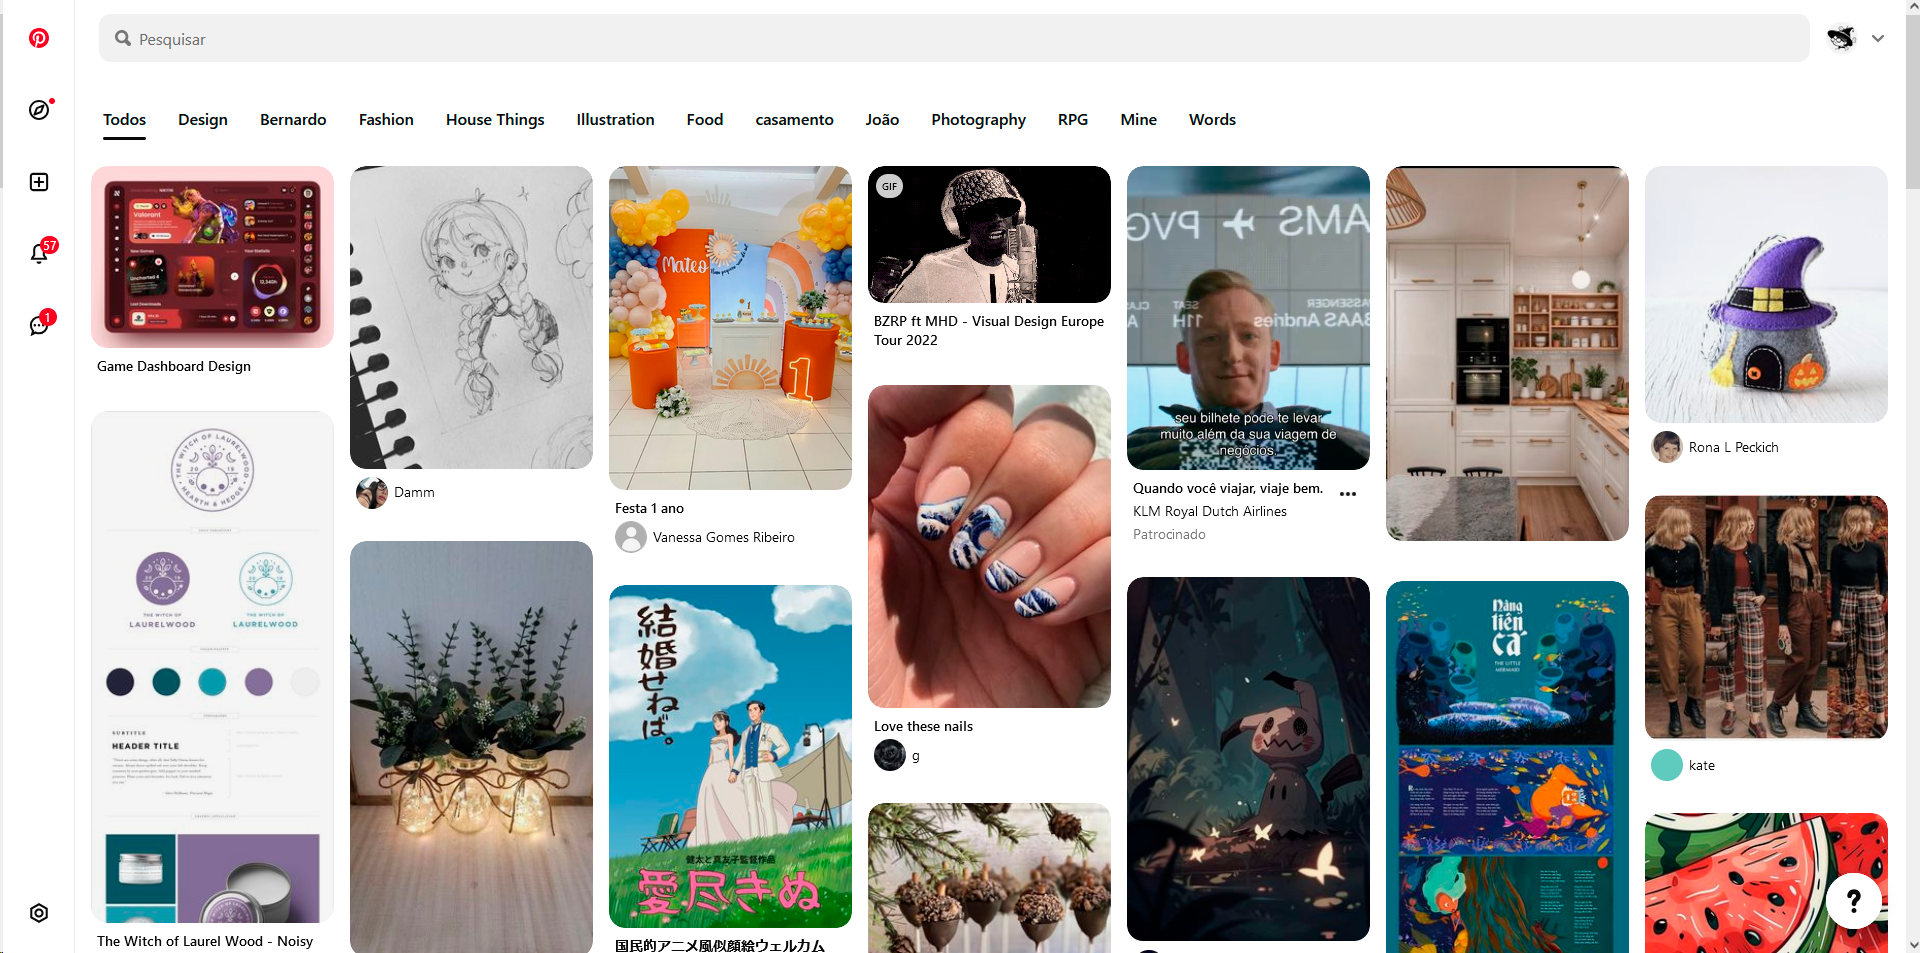
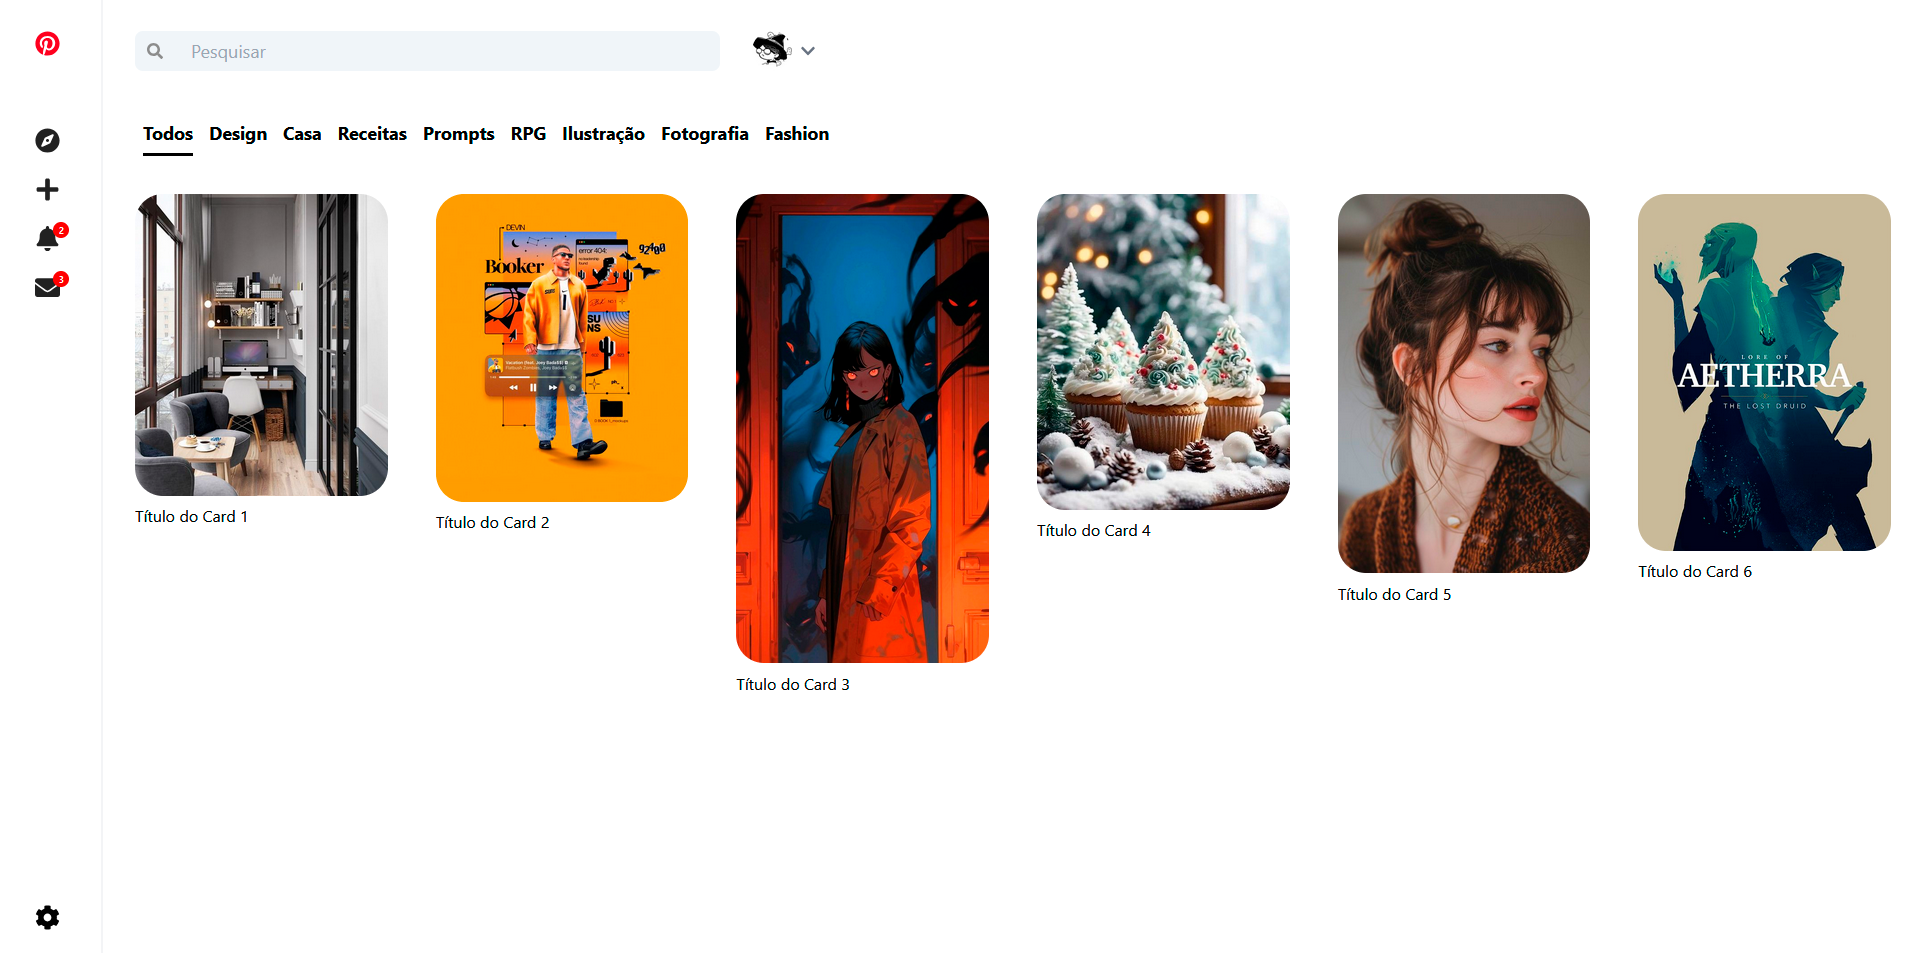
feat: Incremento da home. Ajuste do Login. Incremento de atualização de notificações e mensagens

diff --git a/src/pages/Login.tsx b/src/pages/Login.tsx
@@ -1,0 +1,114 @@
+import { useState } from 'react';
+import { BotaoEntrar, BotaoFacebook, BotaoGoogle, BotaoCriarConta } from '../components/styled/Botao';
+import { FaEye, FaEyeSlash, FaFacebook, FaSpinner } from "react-icons/fa";
+import { FcGoogle } from "react-icons/fc";
+import { FaPinterest } from "react-icons/fa";
+
+import './../components/styled/Login.css';
+import { useNavigate } from 'react-router-dom';
+
+export function Login() {
+  const [email, setEmail] = useState<string>('');
+  const [password, setPassword] = useState<string>('');
+  const [erro, setErro] = useState<boolean>(false); // estado de erro para validação de login
+  const [loading, setLoading] = useState<boolean>(false); // estado de loading para simular carregamento
+  const [showPassword, setShowPassword] = useState<boolean>(false); // estado para mostrar a senha
+  const navigate = useNavigate();
+
+  const handleLogin = () => {
+    console.log('Tentativa de login:', { email, password }); // simulação de login
+    // verificao simples + delay para simular o carregamento da página home
+    if (email === 'teste@email.com' && password === 'senha123') {
+      setLoading(true); // inicia o loading
+      setTimeout(() => {
+        setLoading(false); // finaliza o loading
+        navigate('/home');
+      }, 1000);
+    } else {
+      setErro(true);
+    }
+  };
+
+  return (
+    <div className="flex items-center justify-center h-screen bg-gray-100 login bg-custom">
+      <div className='absolute top-0 left-0 p-4 h-full'>
+        <BotaoCriarConta>Criar conta</BotaoCriarConta>
+      </div>
+      <div className="bg-white rounded-[32px] shadow-md w-100 p-8">
+        <div className="flex justify-center p-2">
+          <FaPinterest size={50} className={'text-[#e60023]'} title="Logo do Pinterest" />
+        </div>
+        <h1 className="text-3xl text-center font-semibold">Faça o login para ver mais</h1>
+        <div className="p-6">
+          <form className="px-6" onSubmit={(e) => { e.preventDefault(); handleLogin(); }}>
+            <div className='mb-4'>
+              <div className="mb-4">
+                <label className="block mb-2 text-sm font-medium text-gray-600" htmlFor="email">
+                  Email
+                </label>
+                <input
+                  type="email"
+                  id="email"
+                  className={`w-full p-2 border rounded-xl border-gray-300 ${erro && 'border-red-500'}`} //adicionada a borda vermelha quando erro for true
+                  placeholder="Email"
+                  value={email}
+                  onChange={(e) => setEmail(e.target.value)} // atualiza o estado do e-mail
+                  required
+                />
+              </div>
+              <div className="mb-2">
+                <label className="block mb-2 text-sm font-medium text-gray-600" htmlFor="password">
+                  Senha
+                </label>
+                <div className="relative flex items-center mb-2">
+                  <input
+                    type={showPassword ? "text" : "password"}
+                    id="password"
+                    className={`w-full p-2 border rounded-xl border-gray-300 ${erro && 'border-red-500'}`} //adicionada a borda vermelha quando erro for true
+                    placeholder="Senha"
+                    value={password}
+                    onChange={(e) => setPassword(e.target.value)} // atualiza o estado da senha
+                    required
+                  />
+                  {/* botão para mostrar/esconder a senha*/}
+                  <button
+                    type="button"
+                    className="absolute right-0 mr-2 text-sm text-gray-600"
+                    onClick={() => setShowPassword(state => !state)}
+                  >
+                    {showPassword ? <FaEyeSlash /> : <FaEye />}
+                  </button>
+                </div>
+              </div>
+              {erro && <p className='text-red-500 text-xs'>Dados inválidos</p>}
+            </div>
+            <p className="text-xs mb-4">
+              <a href="#" className="text-xs hover:underline font-semibold">Esqueceu a senha?</a>
+            </p>
+            <button type="submit" className="w-full">
+              <BotaoEntrar>{loading ? <FaSpinner className='w-full animate-spin my-1' /> : "Entrar"}</BotaoEntrar>
+            </button>
+            <p className="font-semibold mb-4 text-center">OU</p>
+            <BotaoFacebook><FaFacebook size={35} className='inline-flex mr-4' /><span className='inline-flex'>Continuar com o Facebook</span></BotaoFacebook>
+            <BotaoGoogle><FcGoogle size={35} className='inline-flex mr-8' /><span className='inline-flex'>Continuar com o Google</span></BotaoGoogle>
+          </form>
+        </div>
+        <div className='w-96 px-6'>
+          <p className="texto-container text-center text-xs">
+            Ao continuar, você concorda com os <a href="#" className="link">Termos de Serviço</a> do Pinterest e confirma que leu nossa <a href="#" className="link">Política de Privacidade</a>.
+            <a href="#" className="link"> Aviso na coleta de informações</a>.
+          </p>
+          <hr className="linha text-center justify-center" />
+          <p className='text-xs text-center'>
+            Ainda não está no Pinterest? <a href="#" className="link">Crie uma conta</a>.
+          </p>
+          <p className='text-xs text-center'>
+            Você é uma empresa? <a href="#" className="link">Comece aqui!</a>
+          </p>
+        </div>
+      </div>
+    </div>
+  );
+};
+
+export default Login;

diff --git a/src/components/SideBarNav.tsx b/src/components/SideBarNav.tsx
@@ -1,0 +1,65 @@
+import {
+  FaPinterest,
+  FaCompass,
+  FaPlus,
+  FaBell,
+  FaEnvelope,
+  FaCog,
+} from "react-icons/fa";
+import "./../components/styled/SideBarNavigation.css";
+import { useCounter } from "../hook/useCounter";
+import NotificationBadge from "./NotificationBadge";
+
+function SideBarNavigation() {
+  const { count: notificacoes, increment: incrementNotificacoes } =
+    useCounter();
+  const { count: mensagens, increment: incrementMensagens } = useCounter();
+
+  return (
+    <nav className="w-[100px] h-full flex flex-col border-r-2 border-r-gray-100 justify-between">
+      <div>
+        <div className="items-center justify-center p-8 mb-10">
+          <FaPinterest size={25} color="#e60023" title="Logo do Pinterest" />
+        </div>
+        <ul className="flex-col items-center">
+          <li className="items-center px-8">
+            <FaCompass size={25} title="Explorar" />
+            <span>Explorar</span>
+          </li>
+          <li className="items-center px-8">
+            <FaPlus size={25} title="Criar" />
+            <span>Criar</span>
+          </li>
+          <li className="items-center px-8">
+            <div className="relative">
+              <FaBell
+                size={25}
+                title="Atualizações"
+                onClick={incrementNotificacoes}
+              />
+              <NotificationBadge count={notificacoes} />
+              <span>Atualizações</span>
+            </div>
+          </li>
+          <li className="items-center px-8">
+            <div className="relative">
+              <FaEnvelope
+                size={25}
+                title="Mensagens"
+                onClick={incrementMensagens}
+              />
+              <NotificationBadge count={mensagens} />
+              <span>Mensagens</span>
+            </div>
+          </li>
+        </ul>
+      </div>
+      <div className="fitems-center mt-auto px-8 config">
+        <FaCog size={25} title="Configurações" />
+        <span>Configurações</span>
+      </div>
+    </nav>
+  );
+}
+
+export default SideBarNavigation;

diff --git a/src/components/PinCard.tsx b/src/components/PinCard.tsx
@@ -1,0 +1,35 @@
+//import './../styled/pinCard.css';
+
+function PinCard() {
+  return (
+    <div className="grid grid-cols-2 md:grid-cols-3 lg:grid-cols-6 gap-4 flex-1">
+        <div className="p-4">
+            <img src="https://i.pinimg.com/564x/a0/ef/4e/a0ef4eefcf92c48d9355684c31e373c2.jpg" alt="Card 1" className="rounded-[28px] w-[250]" />
+            <h4 className="mt-2">Título do Card 1</h4>
+        </div>
+        <div className="p-4">
+            <img src="https://i.pinimg.com/564x/3b/37/c0/3b37c0866bceddf082f3513ac6d428f3.jpg" alt="Card 2" className="rounded-[28px] w-[250]" />
+            <h4 className="mt-2">Título do Card 2</h4>
+        </div>
+        <div className="p-4">
+            <img src="https://i.pinimg.com/564x/61/c5/0a/61c50a0f26e24d47ab4178a6e07ab93e.jpg" alt="Card 3" className="rounded-[28px] w-[250]" />
+            <h4 className="mt-2">Título do Card 3</h4>
+        </div>
+        <div className="p-4">
+            <img src="https://i.pinimg.com/564x/69/58/f1/6958f129491892a8cc426ad2c797dc4f.jpg" alt="Card 4" className="rounded-[28px] w-[250]" />
+            <h4 className="mt-2">Título do Card 4</h4>
+        </div>
+        <div className="p-4">
+            <img src="https://i.pinimg.com/564x/41/a9/f6/41a9f6a9bcb98103f1c0492b50eb65f7.jpg" alt="Card 5" className="rounded-[28px] w-[250]" />
+            <h4 className="mt-2">Título do Card 5</h4>
+        </div>
+        <div className="p-4">
+            <img src="https://i.pinimg.com/564x/aa/a5/4a/aaa54a5c0c7d7c805ad036a783b434bb.jpg" alt="Card 6" className="rounded-[28px] w-[250]" />
+            <h4 className="mt-2">Título do Card 6</h4>
+        </div>
+    </div>
+
+  );
+}
+
+export default PinCard;

diff --git a/src/components/Header.tsx b/src/components/Header.tsx
@@ -1,0 +1,31 @@
+import { FaSearch, FaChevronDown } from 'react-icons/fa';
+
+function Header() {
+  return (
+  <header className="p-4 mb-4 grid grid-cols-3 items-center">
+    <div className="w-full flex items-center">
+      <form className="flex w-full">
+        <button className="rounded-l-lg p-3 bg-slate-100 focus:bg-slate-200 transition duration-200">
+          <FaSearch style={{ color: '#8b8b8b' }} title="Pesquisar" />
+        </button>
+        <input
+          type="search"
+          placeholder="Pesquisar"
+          className="rounded-r-lg border-secondary-border py-1 px-4 text-lg bg-slate-100 w-full focus:border-gray-700 outline-none hover:bg-slate-200 transition duration-200"
+        />
+      </form>
+    </div>
+    <div className="flex items-center px-8">
+      <img
+        src="https://lh3.googleusercontent.com/a/ACg8ocLuHazHpLHZohjcOCRUn1UpR9RSkMHCtOJDvIrveZlvTLgiqg4m=s288-c-no" 
+        alt="Avatar"
+        width={40}
+        className="rounded-full"
+      />
+      <FaChevronDown className="ml-2 text-gray-500" />
+    </div>
+  </header>
+  );
+}
+      
+export default Header;

diff --git a/src/components/Categorias.tsx b/src/components/Categorias.tsx
@@ -1,0 +1,23 @@
+import './styled/Categorias.css';
+
+function Categorias() {
+  return (
+    <div className="p-4 mb-4 categorias">   
+      <div className="flex space-x-4">
+        <ul className="flex">
+          <li><span className='active'>Todos</span></li>
+          <li><span>Design</span></li>
+          <li><span>Casa</span></li>
+          <li><span>Receitas</span></li>
+          <li><span>Prompts</span></li>
+          <li><span>RPG</span></li>
+          <li><span>Ilustração</span></li>
+          <li><span>Fotografia</span></li>
+          <li><span>Fashion</span></li>
+        </ul>
+      </div>
+    </div>
+  );
+}
+
+export default Categorias;

diff --git a/src/pages/Home.tsx b/src/pages/Home.tsx
@@ -1,0 +1,20 @@
+import SideBarNav from '../components/SideBarNav';
+import Header from '../components/Header';
+import Categorias from '../components/Categorias';
+import PinCard from '../components/PinCard';
+
+export function Home() { 
+
+  return (
+    <div className="flex h-screen">       
+      <SideBarNav />  
+      <main className="flex-1 flex flex-col p-4">
+        <Header />
+        <Categorias />
+        <PinCard />
+      </main>
+    </div>
+  )
+}
+
+export default Home

diff --git a/src/components/NotificationBadge/styles.ts b/src/components/NotificationBadge/styles.ts
@@ -1,0 +1,18 @@
+import styled from "styled-components";
+
+export const StyledBadge = styled.div`
+  position: absolute;
+  top: -4px;
+  right: 0;
+  display: flex;
+  align-items: center;
+  justify-content: center;
+  width: 16px;
+  height: 16px;
+  border-radius: 50%;
+  background-color: red;
+  color: white;
+  font-size: 9px;
+  font-weight: bold;
+  user-select: none;
+`;

diff --git a/src/App.tsx b/src/App.tsx
@@ -1,6 +1,6 @@
 import { BrowserRouter, Routes, Route } from 'react-router-dom'; // importa componentes para gerenciamento de rotas
-import { Home } from './components/pages/Home';
-import { Login } from './components/pages/Login';
+import { Home } from './pages/Home';
+import { Login } from './pages/Login';
 
 export default function App() {
   return (

diff --git a/src/hook/useCounter.tsx b/src/hook/useCounter.tsx
@@ -1,0 +1,19 @@
+import { useState } from 'react';
+
+export const useCounter = () => {
+  const [count, setCount] = useState(0);
+
+  const increment = () => {
+    setCount(count + 1);
+  };
+
+  const decrement = () => {
+    setCount(count - 1);
+  };
+
+  return {
+    count,
+    increment,
+    decrement
+  };
+};

diff --git a/src/components/NotificationBadge/index.tsx b/src/components/NotificationBadge/index.tsx
@@ -1,0 +1,12 @@
+import React from 'react';
+import { StyledBadge } from './styles';
+
+interface NotificationBadgeProps {
+  count: number;
+}
+
+const NotificationBadge: React.FC<NotificationBadgeProps> = ({ count }) => {
+  return <StyledBadge>{count}</StyledBadge>;
+};
+
+export default NotificationBadge;

diff --git a/index.html b/index.html
@@ -4,7 +4,7 @@
     <meta charset="UTF-8" />
     <link rel="icon" type="image/svg+xml" href="/vite.svg" />
     <meta name="viewport" content="width=device-width, initial-scale=1.0" />
-    <title>() Pinterest</title>
+    <title>Pinterest</title>
   </head>
   <body>
     <div id="root"></div>

diff --git a/src/components/styled/Categorias.css b/src/components/styled/Categorias.css
@@ -1,6 +1,6 @@
 .categorias ul li {
     font-weight: bold;
-    font-size: 20px;
+    font-size: 18px;
     padding: 0 8px;
     cursor: pointer;
 }
